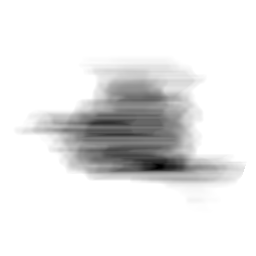
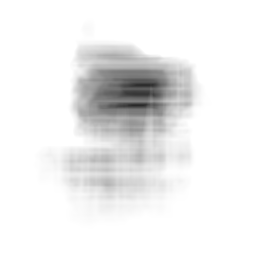
Created biome generation classes for wind and water

Changed region(s): [[0.0938, 0.1562, 0.9688, 0.7812]]

diff --git a/src/generation/BiomeDev.java b/src/generation/BiomeDev.java
@@ -1,5 +1,7 @@
 package generation;
 
+import generation.biomes.*;
+
 import java.awt.image.BufferedImage;
 import java.io.File;
 import java.io.IOException;
@@ -10,9 +12,15 @@ import javax.imageio.ImageIO;
 public class BiomeDev {
 
 	Random rGen;
+		
+	WindGen windGen;
+	WaterGen waterGen;
+	
 
 	public BiomeDev(long seed) {
 		rGen = new Random(seed);
+		windGen = new WindGen(seed);
+		waterGen = new WaterGen(seed);
 	}
 
 	public void CreateBiomes(float[][] heightmap, String directory) {
@@ -25,10 +33,11 @@ public class BiomeDev {
 
 		//temp + moisture = biome
 
-		float[][] windMap = generateWind(heightmap);
-
+		float[][] windMap = windGen.generateWind(heightmap);
+		float[][] waterMap = waterGen.generateRivers(heightmap);
 
 		BufferedImage wind = new BufferedImage(size, size, BufferedImage.TYPE_INT_RGB);
+		BufferedImage water = new BufferedImage(size, size, BufferedImage.TYPE_INT_RGB);
 
 		int a = 255;
 
@@ -48,12 +57,23 @@ public class BiomeDev {
 				b = c;
 				color = (a << 24) | (r << 16) | (g << 8) | b;
 				wind.setRGB(i, j, color);
+				
+				c = Math.round((waterMap[i][j]) * 255f);
+				r = c;
+				g = c;
+				b = c;
+				color = (a << 24) | (r << 16) | (g << 8) | b;
+				
+				water.setRGB(i, j, color);
+
 			}
 		}
 
 
 		try {
 			ImageIO.write(wind, "png", new File(directory, "WindMap.png"));
+			ImageIO.write(water, "png", new File(directory, "WaterMap.png"));
+
 		} catch (IOException e) {
 			e.printStackTrace();
 		}
@@ -62,144 +82,5 @@ public class BiomeDev {
 
 	}
 
-	float[][] generateWind(float[][] map) {
-		int width = map.length;
-		int height = map[0].length;
-
-		boolean north = rGen.nextBoolean();
-		boolean east = rGen.nextBoolean();
-		boolean south = rGen.nextBoolean();
-		boolean west = rGen.nextBoolean();
-		
-		
-		west = (west) || (!north && !east && !south && !west);
-		
-		
-		float[][] northWind = northWind(map, width, height);
-		float[][] eastWind = eastWind(map, width, height);
-		float[][] southWind = southWind(map, width, height);
-		float[][] westWind = westWind(map, width, height);
-
-		float[][] windMap = new float[width][height];
-		
-		for (int i = 0; i < width; i++) {
-			for (int j = 0; j < height; j++) {
-				float mul = 1;
-				if (north)
-					mul *= (1-northWind[i][j]);
-				if (east)
-					mul *= (1-eastWind[i][j]);
-				if (south)
-					mul *= (1-southWind[i][j]);
-				if (west)
-					mul *= (1-westWind[i][j]);
-					
-				windMap[i][j] = 1 - mul;
-			}
-		}
-
-		
-		return windMap;
-	}
 	
-	private float[][] northWind(float[][] map, int width, int height) {
-		float[][] northWind = new float[width][height];
-		int x0 = 0; int xf = width;
-		int y0 = 0; int yf = height;
-		int dx = 1;
-		int dy = 1;
-
-		int x = x0; int y = y0;
-		while (y != yf) {
-			while (x != xf) {
-				//set wind speed based on map height
-				if (y-dy < 0 || y-dy >= height) { //on edge
-					northWind[x][y] = 1;
-				} else {
-					float dh = Math.abs(map[x][y] - map[x][y-dy]);
-					northWind[x][y] = Math.max(northWind[x][y-dy] - dh, 0); //previous value
-				}
-				x = x + dx;
-			}
-			y = y + dy;
-			x = x0;
-		}
-		return northWind;
-	}
-	
-	private float[][] eastWind(float[][] map, int width, int height) {
-		float[][] eastWind = new float[width][height];
-		int x0 = width-1; int xf = -1;
-		int y0 = 0; int yf = height;
-		int dx = -1;
-		int dy = 1;
-
-		int x = x0; int y = y0;
-		while (x != xf) {
-			while (y != yf) {
-				//set wind speed based on map height
-				if (x-dx < 0 || x-dx >= width) { //on edge
-					eastWind[x][y] = 1;
-				} else {
-					float dh = Math.abs(map[x][y] - map[x-dx][y]);
-					eastWind[x][y] = Math.max(eastWind[x-dx][y] - dh, 0); //previous value
-				}
-				y = y + dy;
-			}
-			x = x + dx;
-			y = y0;
-		}
-		return eastWind;
-	}
-	
-	private float[][] southWind(float[][] map, int width, int height) {
-		float[][] southWind = new float[width][height];
-		int x0 = 0; int xf = width;
-		int y0 = height - 1; int yf = -1;
-		int dx = 1;
-		int dy = -1;
-
-		int x = x0; int y = y0;
-		while (y != yf) {
-			while (x != xf) {
-				//set wind speed based on map height
-				if (y-dy < 0 || y-dy >= height) { //on edge
-					southWind[x][y] = 1;
-				} else {
-					float dh = Math.abs(map[x][y] - map[x][y-dy]);
-					southWind[x][y] = Math.max(southWind[x][y-dy] - dh, 0); //previous value
-				}
-				x = x + dx;
-			}
-			y = y + dy;
-			x = x0;
-		}
-		return southWind;
-	}
-	
-	private float[][] westWind(float[][] map, int width, int height) {
-		float[][] westWind = new float[width][height];
-		int x0 = 0; int xf = width;
-		int y0 = 0; int yf = height;
-		int dx = 1;
-		int dy = 1;
-
-		int x = x0; int y = y0;
-		while (x != xf) {
-			while (y != yf) {
-				//set wind speed based on map height
-				if (x-dx < 0 || x-dx >= width) { //on edge
-					westWind[x][y] = 1;
-				} else {
-					float dh = Math.abs(map[x][y] - map[x-dx][y]);
-					westWind[x][y] = Math.max(westWind[x-dx][y] - dh, 0); //previous value
-				}
-				y = y + dy;
-			}
-			x = x + dx;
-			y = y0;
-		}
-		return westWind;
-	}
-
 }

diff --git a/src/generation/biomes/WindGen.java b/src/generation/biomes/WindGen.java
@@ -1,0 +1,157 @@
+package generation.biomes;
+
+import java.util.Random;
+
+public class WindGen {
+	
+	Random rGen;
+	
+	public WindGen(long seed) {
+		rGen = new Random(seed);
+	}
+	
+	
+	
+	
+	
+	public float[][] generateWind(float[][] map) {
+		int width = map.length;
+		int height = map[0].length;
+
+		boolean north = rGen.nextBoolean();
+		boolean east = rGen.nextBoolean();
+		boolean south = rGen.nextBoolean();
+		boolean west = rGen.nextBoolean();
+		
+		
+		west = (west) || (!north && !east && !south && !west);
+		
+		
+		float[][] northWind = northWind(map, width, height);
+		float[][] eastWind = eastWind(map, width, height);
+		float[][] southWind = southWind(map, width, height);
+		float[][] westWind = westWind(map, width, height);
+
+		float[][] windMap = new float[width][height];
+		
+		for (int i = 0; i < width; i++) {
+			for (int j = 0; j < height; j++) {
+				float mul = 1;
+				if (north)
+					mul *= (1-northWind[i][j]);
+				if (east)
+					mul *= (1-eastWind[i][j]);
+				if (south)
+					mul *= (1-southWind[i][j]);
+				if (west)
+					mul *= (1-westWind[i][j]);
+					
+				windMap[i][j] = 1 - mul;
+			}
+		}
+
+		
+		return windMap;
+	}
+	
+	private float[][] northWind(float[][] map, int width, int height) {
+		float[][] northWind = new float[width][height];
+		int x0 = 0; int xf = width;
+		int y0 = 0; int yf = height;
+		int dx = 1;
+		int dy = 1;
+
+		int x = x0; int y = y0;
+		while (y != yf) {
+			while (x != xf) {
+				//set wind speed based on map height
+				if (y-dy < 0 || y-dy >= height) { //on edge
+					northWind[x][y] = 1;
+				} else {
+					float dh = Math.abs(map[x][y] - map[x][y-dy]);
+					northWind[x][y] = Math.max(northWind[x][y-dy] - dh, 0); //previous value
+				}
+				x = x + dx;
+			}
+			y = y + dy;
+			x = x0;
+		}
+		return northWind;
+	}
+	
+	private float[][] eastWind(float[][] map, int width, int height) {
+		float[][] eastWind = new float[width][height];
+		int x0 = width-1; int xf = -1;
+		int y0 = 0; int yf = height;
+		int dx = -1;
+		int dy = 1;
+
+		int x = x0; int y = y0;
+		while (x != xf) {
+			while (y != yf) {
+				//set wind speed based on map height
+				if (x-dx < 0 || x-dx >= width) { //on edge
+					eastWind[x][y] = 1;
+				} else {
+					float dh = Math.abs(map[x][y] - map[x-dx][y]);
+					eastWind[x][y] = Math.max(eastWind[x-dx][y] - dh, 0); //previous value
+				}
+				y = y + dy;
+			}
+			x = x + dx;
+			y = y0;
+		}
+		return eastWind;
+	}
+	
+	private float[][] southWind(float[][] map, int width, int height) {
+		float[][] southWind = new float[width][height];
+		int x0 = 0; int xf = width;
+		int y0 = height - 1; int yf = -1;
+		int dx = 1;
+		int dy = -1;
+
+		int x = x0; int y = y0;
+		while (y != yf) {
+			while (x != xf) {
+				//set wind speed based on map height
+				if (y-dy < 0 || y-dy >= height) { //on edge
+					southWind[x][y] = 1;
+				} else {
+					float dh = Math.abs(map[x][y] - map[x][y-dy]);
+					southWind[x][y] = Math.max(southWind[x][y-dy] - dh, 0); //previous value
+				}
+				x = x + dx;
+			}
+			y = y + dy;
+			x = x0;
+		}
+		return southWind;
+	}
+	
+	private float[][] westWind(float[][] map, int width, int height) {
+		float[][] westWind = new float[width][height];
+		int x0 = 0; int xf = width;
+		int y0 = 0; int yf = height;
+		int dx = 1;
+		int dy = 1;
+
+		int x = x0; int y = y0;
+		while (x != xf) {
+			while (y != yf) {
+				//set wind speed based on map height
+				if (x-dx < 0 || x-dx >= width) { //on edge
+					westWind[x][y] = 1;
+				} else {
+					float dh = Math.abs(map[x][y] - map[x-dx][y]);
+					westWind[x][y] = Math.max(westWind[x-dx][y] - dh, 0); //previous value
+				}
+				y = y + dy;
+			}
+			x = x + dx;
+			y = y0;
+		}
+		return westWind;
+	}
+
+}

diff --git a/src/generation/biomes/WaterGen.java b/src/generation/biomes/WaterGen.java
@@ -1,0 +1,18 @@
+package generation.biomes;
+
+import java.util.Random;
+
+public class WaterGen {
+
+	
+	Random rGen;
+	
+	public WaterGen(long seed) {
+		rGen = new Random(seed);
+	}
+
+	public float[][] generateRivers(float[][] heightmap) {
+		// TODO Auto-generated method stub
+		return heightmap;
+	}
+}
